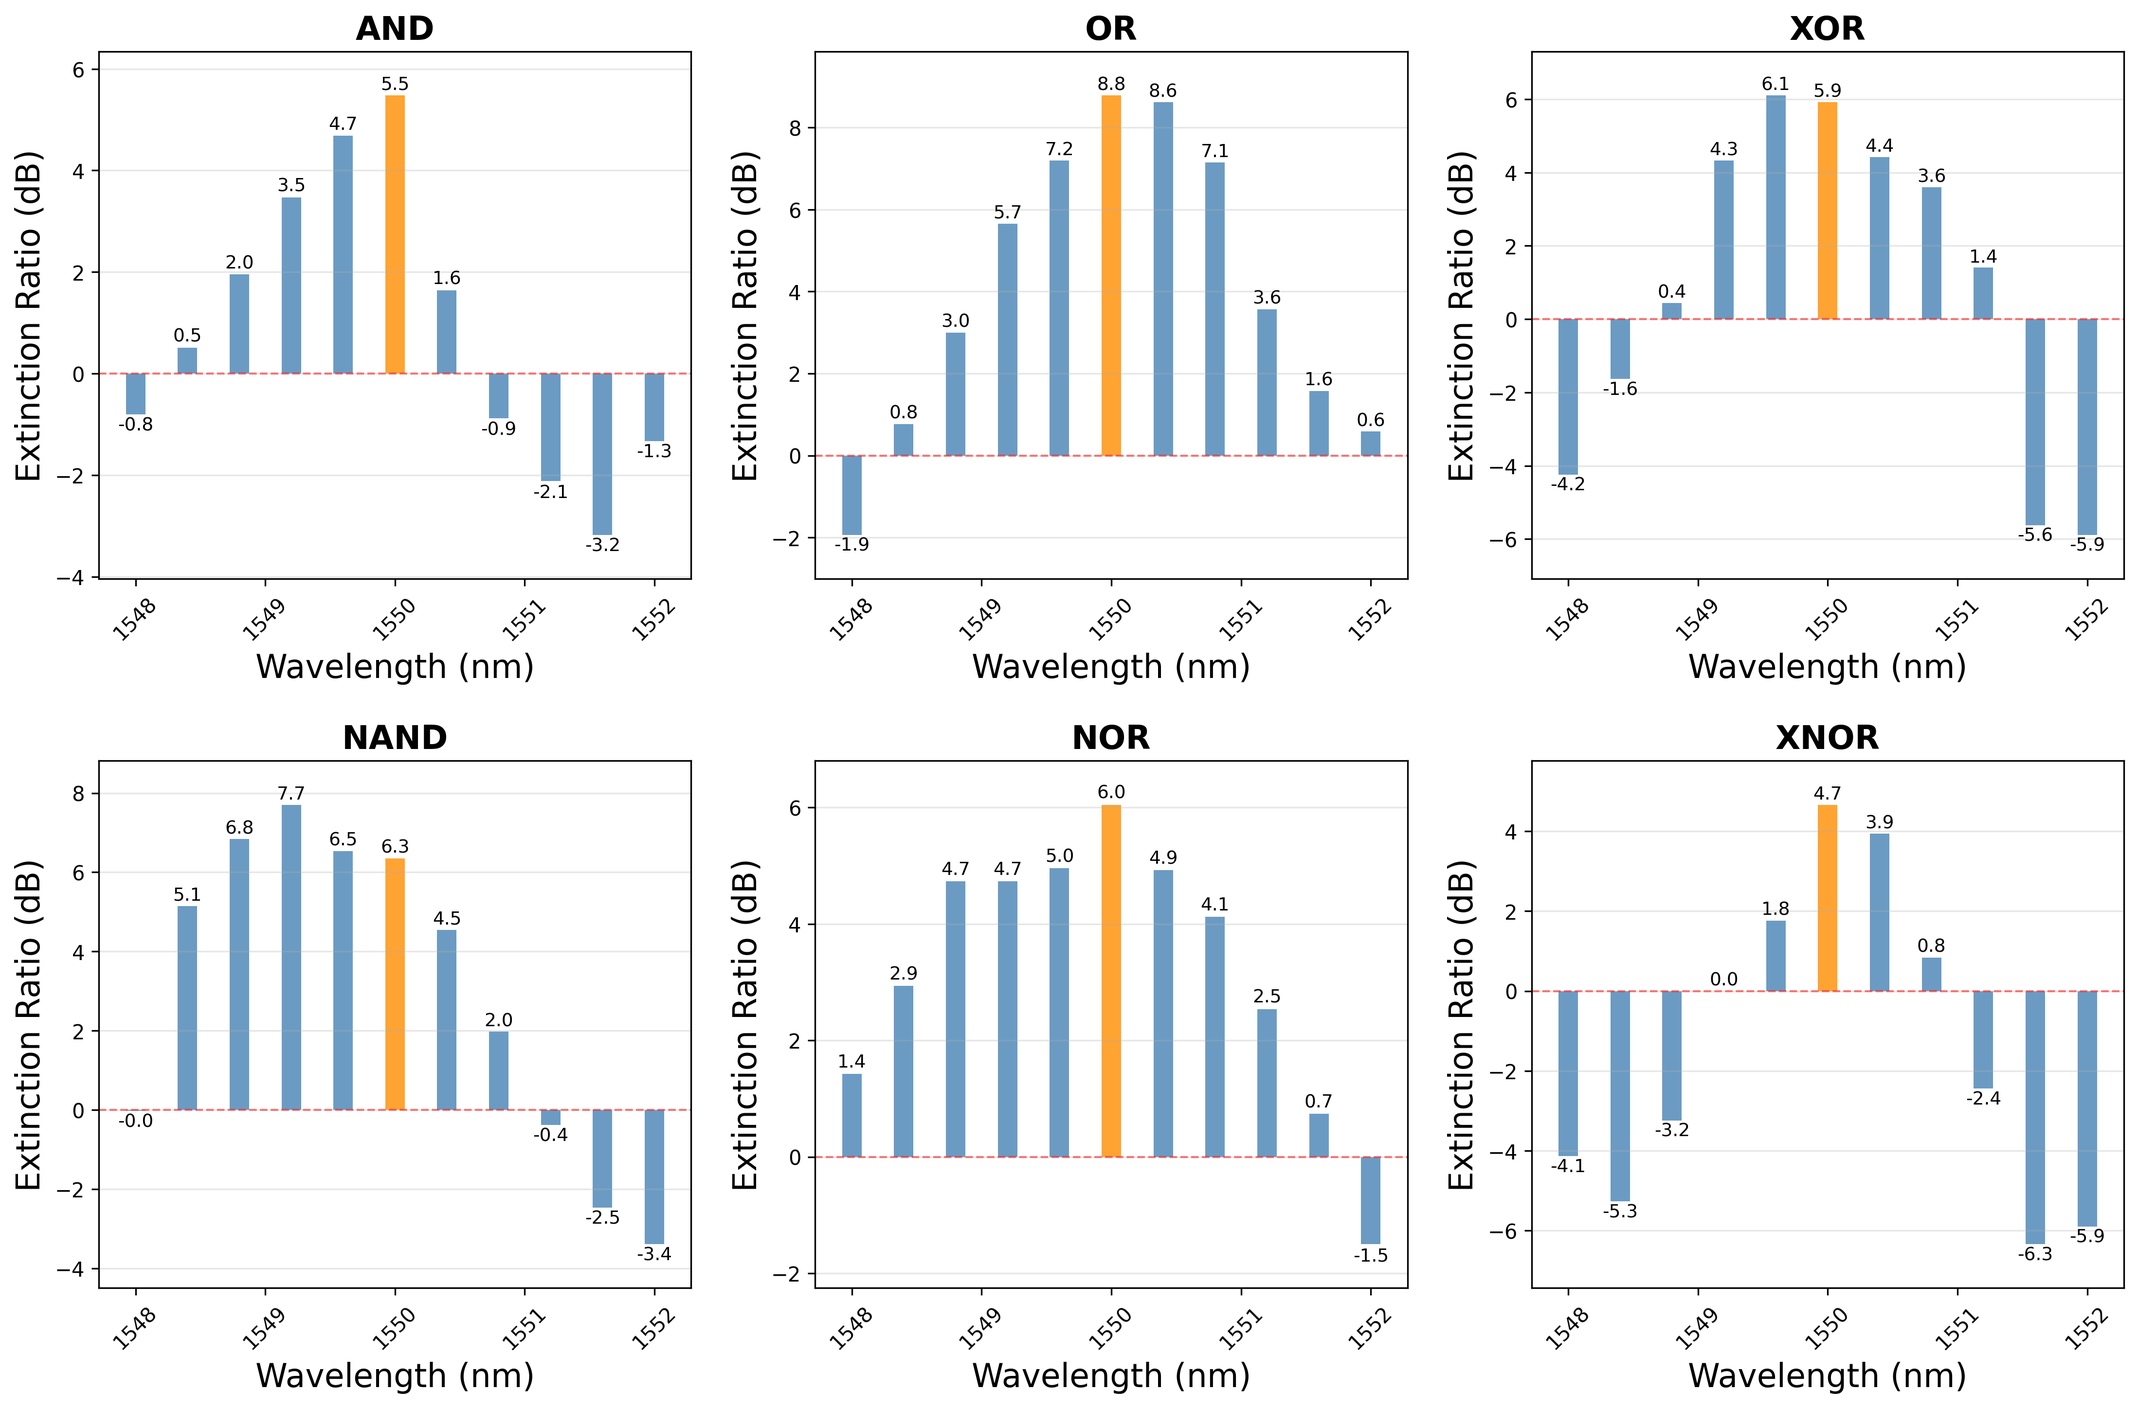
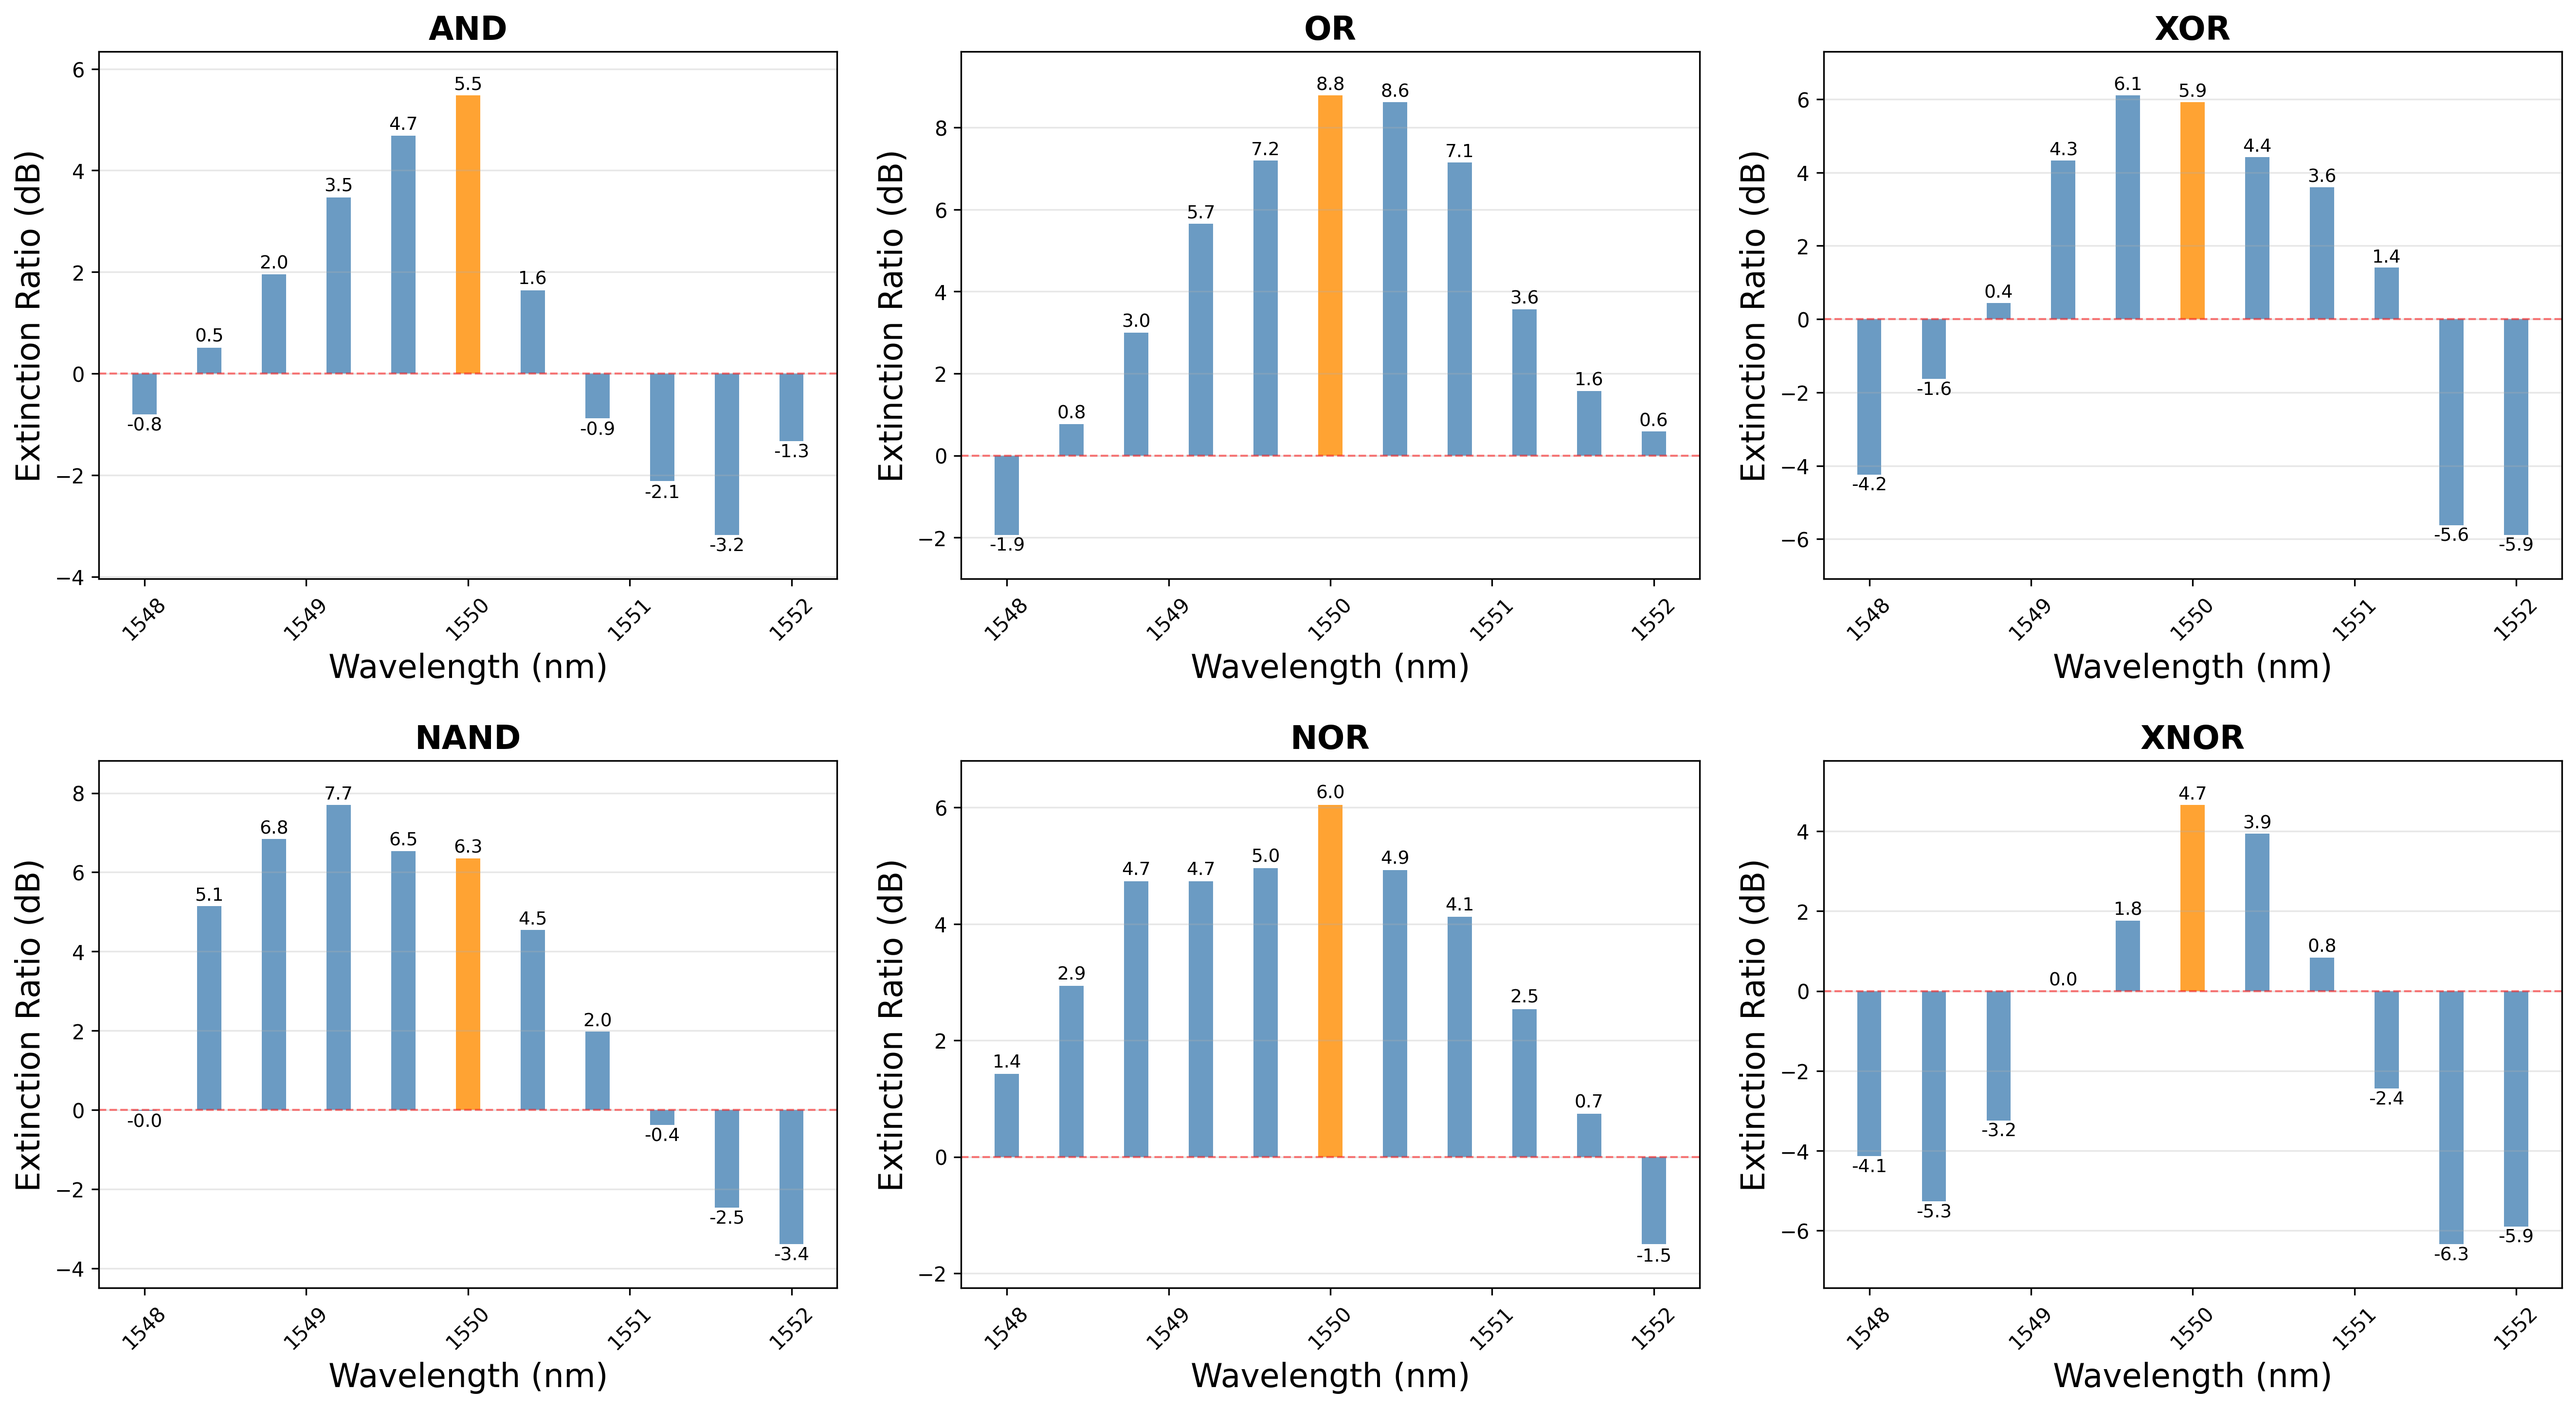
update from image generation

diff --git a/Measurements/graph_sequence_generator.py b/Measurements/graph_sequence_generator.py
@@ -29,31 +29,89 @@ def identify_states(df):
     df['state'] = states
     return df
 
+# def create_simple_continuous_graphs(df, save_plots=True):
+#     """Alternative: Create simple continuous line plots without state coloring"""
+    
+#     # Set up the figure with 3 subplots sharing x-axis
+#     fig, (ax1, ax2, ax3) = plt.subplots(3, 1, figsize=(12, 10), sharex=True)
+    
+#     # Sort dataframe by timestamp to ensure continuous lines
+#     df_sorted = df.sort_values('timestamp').reset_index(drop=True)
+    
+#     # Graph 1: Input A vs Time - Simple continuous line
+#     ax1.plot(df_sorted['timestamp'], df_sorted['A'], linewidth=2, color='blue', alpha=0.8)
+#     ax1.set_ylabel('Input A (V)', fontsize=12)
+#     ax1.grid(True, alpha=0.3)
+#     ax1.set_ylim(-0.5, 5.5)
+    
+#     # Graph 2: Input B vs Time - Simple continuous line
+#     ax2.plot(df_sorted['timestamp'], df_sorted['B'], linewidth=2, color='orange', alpha=0.8)
+#     ax2.set_ylabel('Input B (V)', fontsize=12)
+#     ax2.grid(True, alpha=0.3)
+#     ax2.set_ylim(-0.5, 5.5)
+    
+#     # Graph 3: Output vs Time - Simple continuous line
+#     ax3.plot(df_sorted['timestamp'], df_sorted['OUT'], linewidth=2, color='red', alpha=0.8)
+#     ax3.set_ylabel('Output (V)', fontsize=12)
+#     ax3.set_xlabel('Time (seconds)', fontsize=12)
+#     ax3.grid(True, alpha=0.3)
+    
+#     # Add vertical lines to show state transitions
+#     state_changes = []
+#     prev_state = df_sorted['state'].iloc[0]
+#     for i, row in df_sorted.iterrows():
+#         if row['state'] != prev_state:
+#             state_changes.append(row['timestamp'])
+#             prev_state = row['state']
+    
+#     for change_time in state_changes:
+#         ax1.axvline(x=change_time, color='black', linestyle='--', alpha=0.5, linewidth=1)
+#         ax2.axvline(x=change_time, color='black', linestyle='--', alpha=0.5, linewidth=1)
+#         ax3.axvline(x=change_time, color='black', linestyle='--', alpha=0.5, linewidth=1)
+    
+#     # Adjust layout to prevent overlap
+#     plt.tight_layout()
+    
+#     # Save the plots if requested
+#     if save_plots:
+#         timestamp = pd.Timestamp.now().strftime('%Y%m%d_%H%M%S')
+#         filename = f'three_aligned_simple_continuous_{timestamp}.png'
+#         plt.savefig(filename, dpi=300, bbox_inches='tight')
+#         print(f"Plot saved as: {filename}")
+    
+#     return fig
+
 def create_simple_continuous_graphs(df, save_plots=True):
     """Alternative: Create simple continuous line plots without state coloring"""
+    
+    # Convert timestamp to milliseconds
+    df_sorted = df.sort_values('timestamp').reset_index(drop=True)
+    df_sorted['timestamp_ms'] = df_sorted['timestamp'] * 1000
     
     # Set up the figure with 3 subplots sharing x-axis
     fig, (ax1, ax2, ax3) = plt.subplots(3, 1, figsize=(12, 10), sharex=True)
     
-    # Sort dataframe by timestamp to ensure continuous lines
-    df_sorted = df.sort_values('timestamp').reset_index(drop=True)
-    
     # Graph 1: Input A vs Time - Simple continuous line
-    ax1.plot(df_sorted['timestamp'], df_sorted['A'], linewidth=2, color='blue', alpha=0.8)
-    ax1.set_ylabel('Input A (V)', fontsize=12)
+    ax1.plot(df_sorted['timestamp_ms'], df_sorted['A'], linewidth=2, color='blue', alpha=0.8)
+    ax1.set_ylabel('Input A (V)', fontsize=24)
+    # Example for one axis
+    ax1.tick_params(axis='both', labelsize=14)  # change 18 to whatever size you want
     ax1.grid(True, alpha=0.3)
     ax1.set_ylim(-0.5, 5.5)
     
     # Graph 2: Input B vs Time - Simple continuous line
-    ax2.plot(df_sorted['timestamp'], df_sorted['B'], linewidth=2, color='orange', alpha=0.8)
-    ax2.set_ylabel('Input B (V)', fontsize=12)
+    ax2.plot(df_sorted['timestamp_ms'], df_sorted['B'], linewidth=2, color='orange', alpha=0.8)
+    ax2.set_ylabel('Input B (V)', fontsize=24)
     ax2.grid(True, alpha=0.3)
     ax2.set_ylim(-0.5, 5.5)
+    ax2.tick_params(axis='both', labelsize=14)  # change 18 to whatever size you want
     
     # Graph 3: Output vs Time - Simple continuous line
-    ax3.plot(df_sorted['timestamp'], df_sorted['OUT'], linewidth=2, color='red', alpha=0.8)
-    ax3.set_ylabel('Output (V)', fontsize=12)
-    ax3.set_xlabel('Time (seconds)', fontsize=12)
+    ax3.plot(df_sorted['timestamp_ms'], df_sorted['OUT'], linewidth=2, color='red', alpha=0.8)
+    ax3.set_ylabel('Output (V)', fontsize=24)
+    ax3.set_xlabel('Time (ms)', fontsize=24)   # update label here
+    ax3.tick_params(axis='both', labelsize=14)  # change 18 to whatever size you want
+    
     ax3.grid(True, alpha=0.3)
     
     # Add vertical lines to show state transitions
@@ -61,7 +119,7 @@ def create_simple_continuous_graphs(df, save_plots=True):
     prev_state = df_sorted['state'].iloc[0]
     for i, row in df_sorted.iterrows():
         if row['state'] != prev_state:
-            state_changes.append(row['timestamp'])
+            state_changes.append(row['timestamp_ms'])
             prev_state = row['state']
     
     for change_time in state_changes:
@@ -80,6 +138,7 @@ def create_simple_continuous_graphs(df, save_plots=True):
         print(f"Plot saved as: {filename}")
     
     return fig
+
 
 def print_summary(df):
     """Print a summary of the data"""
@@ -104,7 +163,7 @@ def main():
     #df = load_data_from_string(data_string)
     
     # Alternative: Load from file
-    df = load_data_from_file('micro.csv')
+    df = load_data_from_file('RigolDS2.csv')
     
     # Identify states
     df = identify_states(df)

diff --git a/Gates/Figures/evolution_tuning.py b/Gates/Figures/evolution_tuning.py
@@ -2,53 +2,70 @@ import matplotlib.pyplot as plt
 import numpy as np
 
 def plot_gate_bar(
-    inputs,            # list of tuples (A, B)
-    outputs,           # list of float values (same length as inputs)
-    title="Logic Gate",
+    inputs,
+    outputs,
     ylabel="Normalized Output",
     xlabel="Input",
-    threshold: float = 0.5
+    threshold: float = 0.5,
+    label_height: float = 0.6,
+    savepath: str = None   # new optional argument
 ):
     """
     Create a bar plot for logic gate inputs/outputs.
     - inputs: list of (A, B) tuples
     - outputs: list of output values (floats)
+    - savepath: filename to save the figure (if provided)
     """
 
-    labels = [f"A={a}\nB={b}" for a, b in inputs]
     outputs = np.array(outputs, dtype=float)
     if outputs.max() > 1.0:
         outputs = outputs / outputs.max()
 
     fig, ax = plt.subplots(figsize=(5,4))
-    ax.bar(labels, outputs, color="skyblue")
+    bars = ax.bar(range(len(inputs)), outputs, color="skyblue")
+
+    # Add horizontal threshold line
     ax.axhline(y=threshold, color="red", linestyle="--")
     ax.set_ylim(0, 1.1)
-    ax.set_title(title)
-    ax.set_ylabel(ylabel)
-    ax.set_xlabel(xlabel)
+
+    ax.set_ylabel(ylabel, fontsize=17)
+    ax.set_xlabel(xlabel, fontsize=17)
+    ax.tick_params(axis="both", labelsize=12)
+    ax.set_xticks([])
+
+    # Add compact input labels like (0,0)
+    for i, bar in enumerate(bars):
+        ax.text(
+            bar.get_x() + bar.get_width() / 2,
+            label_height,
+            f"({inputs[i][0]},{inputs[i][1]})",
+            ha="center", va="bottom", fontsize=16, color="black"
+        )
+
     plt.tight_layout()
-    plt.show()
+
+    # Save if a path is provided
+    if savepath:
+        plt.savefig(savepath, dpi=300, bbox_inches="tight")
+        plt.close(fig)  # close to free memory if many plots
+    else:
+        plt.show()
 
 
 if __name__ == "__main__":
-    # Define the input combinations
     inputs = [(0,0), (0,1), (1,0), (1,1)]
 
-    # Now define multiple sets of outputs (each list = one plot)
     all_outputs = [
-        [0.5, 0.45, 0.8, 0.34],   # First iteration
-        [0.35, 0.4, 0.7, 0.4],  # Second iteration
-        [0.3, 0.4, 0.5, 0.6],   # Third iteration
+        [0.5, 0.45, 0.8, 0.34],
+        [0.35, 0.4, 0.7, 0.4],
+        [0.3, 0.4, 0.5, 0.6],
         [0.3, 0.32, 0.45, 0.7],
         [0.2, 0.3, 0.3, 0.75],
-        [0.1, 0.14, 0.15, 0.95]
+        [0.1, 0.14, 0.15, 1]
     ]
 
-    # Generate a plot for each set
+    # Generate and save each plot
     for i, outputs in enumerate(all_outputs, start=1):
-        plot_gate_bar(
-            inputs,
-            outputs,
-            title=f"AND Gate"
-        )
+        filename = f"plot_{i}.png"
+        plot_gate_bar(inputs, outputs, savepath=filename)
+        print(f"Saved {filename}")

diff --git a/Gates/Figures/logic_gates_image.py b/Gates/Figures/logic_gates_image.py
@@ -5,38 +5,58 @@ import math
 # Load data
 df = pd.read_excel('Centered logic_gates_results.xlsx')
 
-# Generate label
-df['Label'] = df.apply(lambda row: f"A={row['A']:.2f}\nB={row['B']:.2f}", axis=1)
+# Remap function for clean labels
+def remap_value(v):
+    if abs(v - 0.1) < 1e-6:
+        return 0
+    elif abs(v - 4.9) < 1e-6:
+        return 1
+    else:
+        return round(v, 2)
 
-# Grid size: 2 cols, auto-adjust rows
+# Generate compact label like (0,1)
+df['Label'] = df.apply(lambda row: f"({remap_value(row['A'])},{remap_value(row['B'])})", axis=1)
+
+# Grid size: 3 cols, auto-adjust rows
 unique_gates = df['Gate'].unique()
 n = len(unique_gates)
 cols = 3
 rows = math.ceil(n / cols)
 
 # Smaller figure height per row
-fig, axes = plt.subplots(rows, cols, figsize=(cols * 3, rows * 3))
+fig, axes = plt.subplots(rows, cols, figsize=(cols * 3.2, rows * 3))
 axes = axes.flatten()
 
 # Plot
 for i, gate in enumerate(unique_gates):
     gate_df = df[df['Gate'] == gate]
-    axes[i].bar(gate_df['Label'], gate_df['Output'], color='steelblue')
+    bars = axes[i].bar(range(len(gate_df)), gate_df['Output'], color='skyblue')
+
     axes[i].set_title(f"{gate} Gate", fontsize=14)
     axes[i].set_ylim(0, 1.1)
     axes[i].set_ylabel("Normalized Output", fontsize=11)
-    axes[i].set_xlabel("Input (V)", fontsize=11)
-    axes[i].tick_params(axis='x', labelsize=9.5)
+    axes[i].set_xlabel("Input", fontsize=11)
     axes[i].tick_params(axis='y', labelsize=9.5)
+    axes[i].set_xticks([])  # remove x-axis tick labels
+
     # Add threshold line
     axes[i].axhline(y=0.5, color='red', linestyle='--', linewidth=1)
+
+    # Add input labels inside at fixed height
+    for j, bar in enumerate(bars):
+        axes[i].text(
+            bar.get_x() + bar.get_width()/2,
+            0.6,  # fixed height
+            gate_df['Label'].iloc[j],
+            ha='center', va='bottom', fontsize=9, color='black'
+        )
 
 # Hide unused axes
 for j in range(i + 1, len(axes)):
     fig.delaxes(axes[j])
 
 # Layout
-#plt.suptitle("Photonic Logic Gate Outputs", fontsize=14)
-plt.tight_layout(rect=[0, 0, 1, 0.95])
+plt.tight_layout(rect=[0, 0, 1, 0.9])
+plt.subplots_adjust(wspace=0.4)  # increase horizontal spacing
 plt.savefig("logic_gates_subplot_grid.png", dpi=300)
 plt.show()

diff --git a/Gates/Figures/wave_length.py b/Gates/Figures/wave_length.py
@@ -100,7 +100,7 @@ def plot_simple_extinction_ratios(file_path, method='worst_case', sheet_name=Non
     gates = df['Gate'].unique()
     
     # Create 2x3 subplot grid
-    fig, axes = plt.subplots(2, 3, figsize=(15, 10))
+    fig, axes = plt.subplots(2, 3, figsize=(18, 10))
     axes = axes.flatten()
     
     for gate_idx, gate in enumerate(gates):
